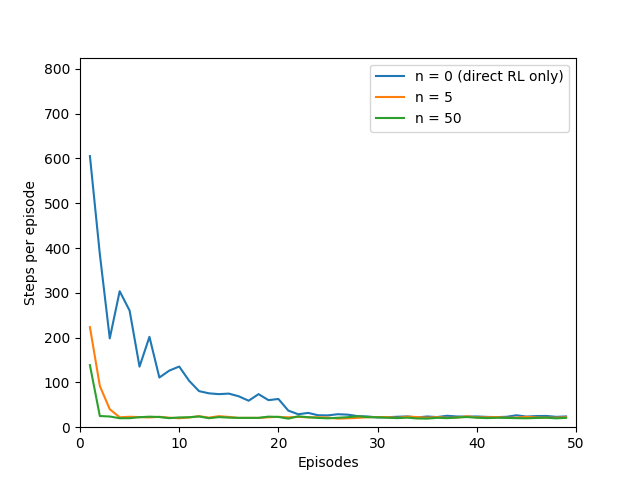
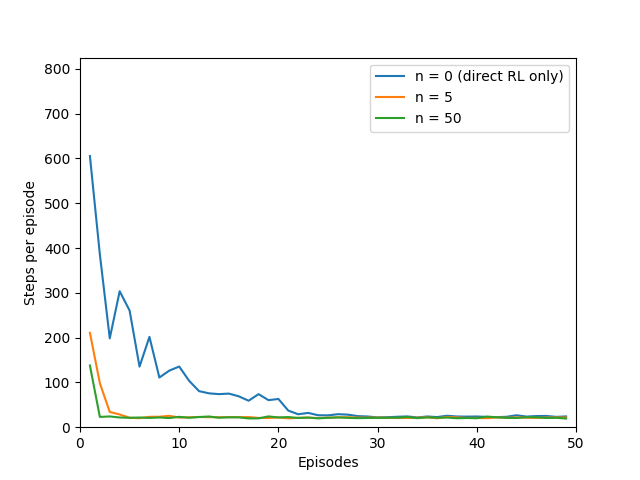
Prep for final submission

Changed region(s): [[0.1562, 0.8438, 0.875, 0.875], [0.125, 0.6875, 0.1562, 0.75]]

diff --git a/assignment5/part2/maze_exp.py b/assignment5/part2/maze_exp.py
@@ -14,12 +14,12 @@ RLGlue("maze_env", "dyna-q_agent")
 
 import numpy as np
 import pickle
-
+import random
 
 if __name__ == "__main__":
     num_episodes = 50
     max_steps = 2500
-    num_runs = 10
+    num_runs = 50
 
     alpha_sweep = [0.03125, 0.0625, 0.125, 0.25, 0.5, 1.0]
 
@@ -30,15 +30,16 @@ if __name__ == "__main__":
         RL_agent_message(["alpha",alpha])
 
         for run in range(num_runs):
-            np.random.seed(366609 + run)
+            np.random.seed(5687461  + run)
+            random.seed(123)
             # print("Seed = " + str(366 + run))
             print("run number: " + str(run))
             RL_init()
             for episode in range(num_episodes):
                 RL_episode(max_steps)
                 data[episode][run] = RL_num_steps()
-                # if episode == 0:
-                #     print("First Episode Length = " + str(RL_num_steps()))
+                if episode == 0:
+                    print("First Episode Length = " + str(RL_num_steps()))
             RL_cleanup()
 
         average_over_runs = np.mean(data, axis=1) # axis=1 does mean by row, ie per episode

diff --git a/assignment5/part2/plot.py b/assignment5/part2/plot.py
@@ -24,7 +24,12 @@ if __name__ == "__main__":
   # ax.set_xlabel("Alpha")
   # ax.set_ylabel("Average steps per episode over first 50 episodes")
   # bars = ax.bar(np.arange(6), data)
-  plt.ylim([25,30])
-  plt.plot(data)
+  # plt.ylim([22.9,25])
+  plt.xlabel("Alpha Values")
+  plt.ylabel("Average # Steps per Episode")
 
+  plt.plot(alpha_sweep,data)
+  plt.savefig("Dyna-Q.labelled.png")
+  plt.clf()
+  plt.plot(data)
   plt.savefig("Dyna-Q.png")

diff --git a/assignment5/part2/dyna-q_agent.py b/assignment5/part2/dyna-q_agent.py
@@ -14,7 +14,7 @@ import random
 
 ### PARAMETERS ###
 alpha = None
-epsilon = 0.1
+epsilon = 0.0003
 gamma = 0.95
 n = None
 ### PARAMETERS ###
